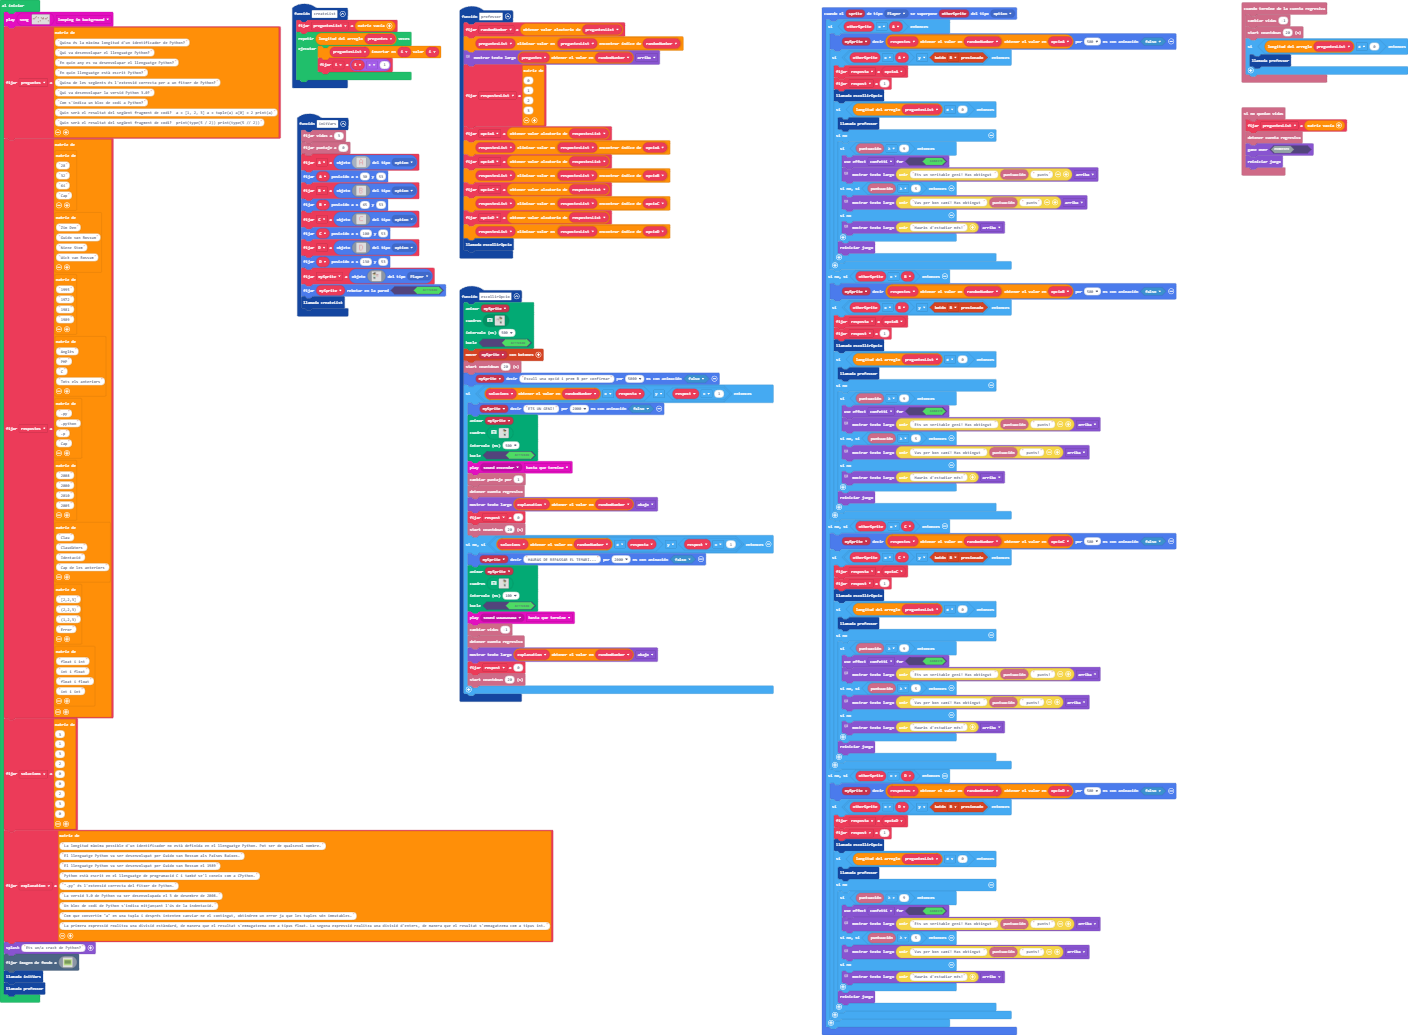
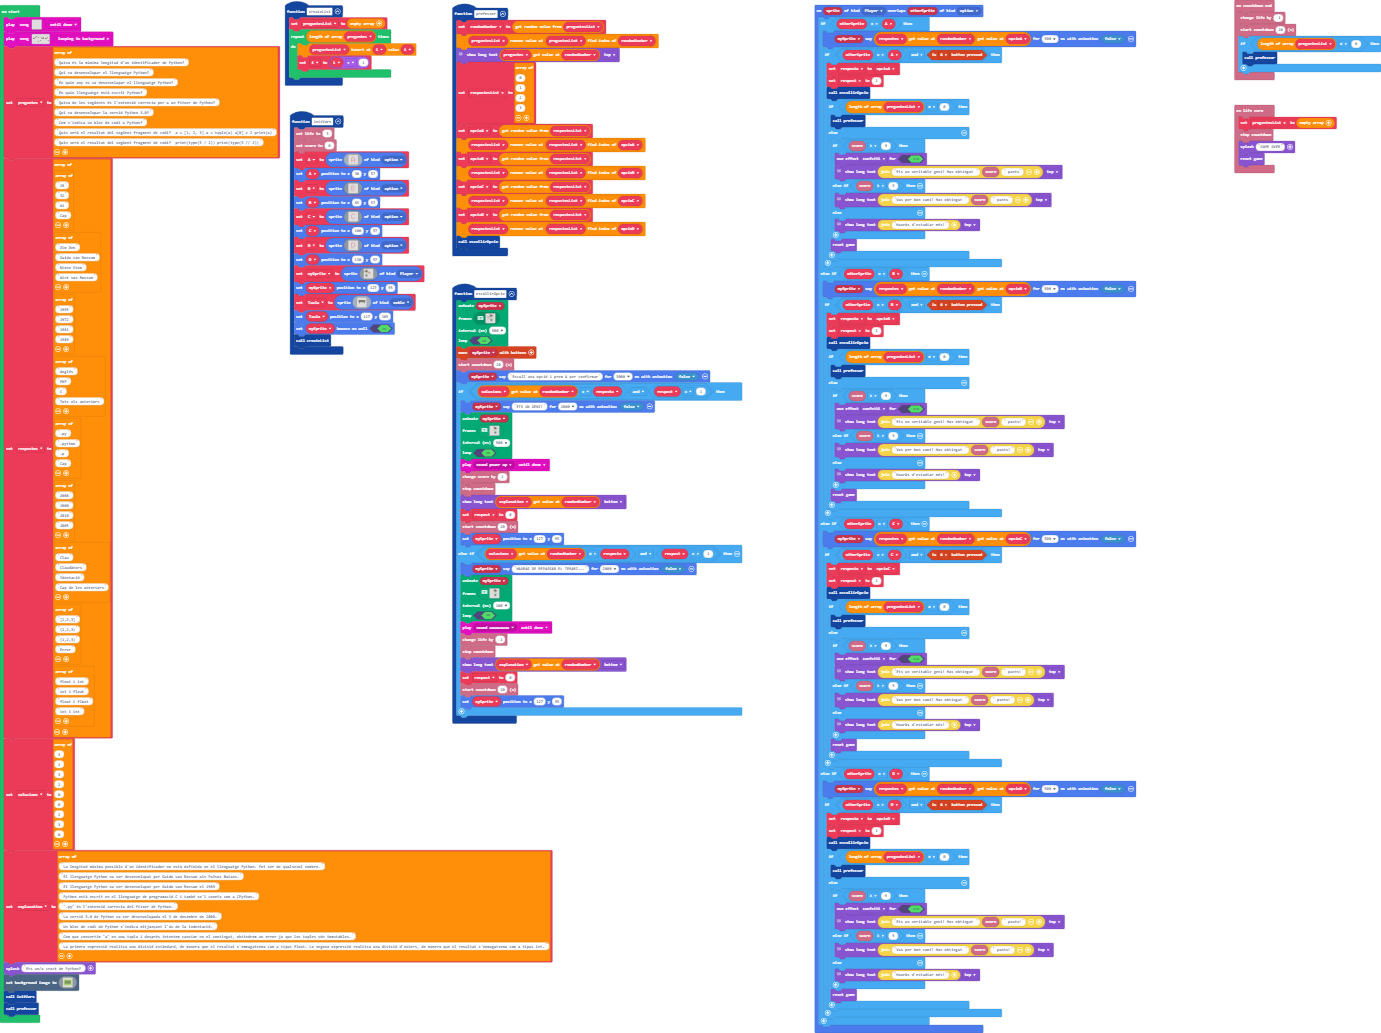
Update main.blocks, main.ts, images.g.jres, images.g.ts, tilemap.g.ts

Changed region(s): [[0.0, 0.0, 0.8407, 1.0], [0.8718, 0.0, 1.0, 0.1859], [0.685, 0.9913, 0.7473, 1.0]]

diff --git a/images.g.ts b/images.g.ts
@@ -1,4 +1,4 @@
-// Código generado automáticamente. No editar.
+// Auto-generated code. Do not edit.
 namespace myImages {
 
     helpers._registerFactory("image", function(name: string) {
@@ -219,6 +219,35 @@ dd...11111......................
 ................................
 ................................
 `;
+            case "image6":
+            case "myImage4":return img`
+. a a a a a a a a a a a a a a . 
+. . . a a a a a a a a a a . . . 
+. . . a . . . . . . . . a . . . 
+. . . a . . . . . . . . a . . . 
+. . . a . . . . . . . . a . . . 
+. . . . . . . . . . . . . . . . 
+. . . . . . . . . . . . . . . . 
+. . . . . . . . . . . . . . . . 
+`;
+            case "image9":
+            case "myImage7":return img`
+................................
+..aaaaaaaaaaaaaaaaaaaaaaaaaaaa..
+..aaaaaaaaaaaaaaaaaaaaaaaaaaaa..
+..aaaaaaaaaaaaaaaaaaaaaaaaaaaa..
+......aaaaaaaaaaaaaaaaaaaa......
+......aaaaaaaaaaaaaaaaaaaa......
+......aa................aa......
+......aa................aa......
+......aa................aa......
+......aa................aa......
+......aa................aa......
+......aa................aa......
+................................
+................................
+................................
+`;
         }
         return null;
     })
@@ -324,107 +353,6 @@ dd...11111......................
 ................................
 ................................
 ................................
-................................
-`];
-            case "myAnim":
-            case "anim1":return [img`
-..........99999999999...........
-........99...........99.........
-......99...............99.......
-.....9......f............9......
-....9.......fff.f.........9.....
-...9.......ffffffff........9....
-..9........ffffffffff.......9...
-..9.........fddfddffff......9...
-.9..........dddddddfff.......9..
-.9..........ddfddfdddf.......9..
-9..........ddddddddddd........9.
-9...........ddddddddd.........9.
-9...........ddddddddd.........9.
-9............ddddddd..........9.
-9..............dddd...........9.
-9...............dd............9.
-9.....5.......11111...........9.
-9......5.....1111111..........9.
-9.......dd..111111111.........9.
-9........dddd.11111d..........9.
-9.............11111.dd........9.
-.9............11111...dd.....9..
-.9............11111..........9..
-..9...........fffff.........9...
-..9...........fffff.........9...
-...9..........fffff........9....
-....9.........ff.ff.......9.....
-.....9.........d.d.......9......
-......99.......d.d.....99.......
-........99....ff.ff..99.........
-..........99999999999...........
-................................
-`, img`
-...........99999999999..........
-.........99...........99........
-.......99...............99......
-......9............f......9.....
-.....9.........f.fff.......9....
-....9........ffffffff.......9...
-...9.......ffffffffff........9..
-...9......ffffddfddf.........9..
-..9.......fffddddddd..........9.
-..9.......fdddfddfdd..........9.
-.9........ddddddddddd..........9
-.9.........ddddddddd...........9
-.9.........ddddddddd...........9
-.9..........ddddddd............9
-.9...........dddd..............9
-.9............dd...............9
-.9...........11111.......5.....9
-.9..........1111111.....5......9
-.9.........111111111..dd.......9
-.9..........d11111.dddd........9
-.9........dd.11111.............9
-..9.....dd...11111............9.
-..9..........11111............9.
-...9.........fffff...........9..
-...9.........fffff...........9..
-....9........fffff..........9...
-.....9.......ff.ff.........9....
-......9.......d.d.........9.....
-.......99.....d.d.......99......
-.........99..ff.ff....99........
-...........99999999999..........
-................................
-`, img`
-..........99999999999...........
-........99...........99.........
-......99...............99.......
-.....9......f............9......
-....9.......fff.f.........9.....
-...9.......ffffffff........9....
-..9........ffffffffff.......9...
-..9.........fddfddffff......9...
-.9..........dddddddfff.......9..
-.9..........ddfddfdddf.......9..
-9..........ddddddddddd........9.
-9...........ddddddddd.........9.
-9...........ddddddddd.........9.
-9............ddddddd..........9.
-9..............dddd...........9.
-9...............dd............9.
-9.....5.......11111...........9.
-9......5.....1111111..........9.
-9.......dd..111111111.........9.
-9........dddd.11111d..........9.
-9.............11111.dd........9.
-.9............11111...dd.....9..
-.9............11111..........9..
-..9...........fffff.........9...
-..9...........fffff.........9...
-...9..........fffff........9....
-....9.........ff.ff.......9.....
-.....9.........d.d.......9......
-......99.......d.d.....99.......
-........99....ff.ff..99.........
-..........99999999999...........
 ................................
 `];
             case "myAnim1":
@@ -709,4 +637,4 @@ dd...11111......................
     })
 
 }
-// Código generado automáticamente. No editar.
+// Auto-generated code. Do not edit.

diff --git a/main.ts b/main.ts
@@ -1,5 +1,6 @@
 namespace SpriteKind {
     export const option = SpriteKind.create()
+    export const moble = SpriteKind.create()
 }
 function escollirOpcio () {
     animation.runImageAnimation(
@@ -10,7 +11,7 @@ function escollirOpcio () {
     )
     controller.moveSprite(mySprite)
     info.startCountdown(20)
-    mySprite.sayText("Escull una opció i prem B per confirmar", 5000, false)
+    mySprite.sayText("Escull una opció i prem A per confirmar", 5000, false)
     if (solucions[randomNumber] == resposta && respost == 1) {
         mySprite.sayText("ETS UN GENI!", 2000, false)
         animation.runImageAnimation(
@@ -25,6 +26,7 @@ function escollirOpcio () {
         game.showLongText(explanation[randomNumber], DialogLayout.Bottom)
         respost = 0
         info.startCountdown(20)
+        mySprite.setPosition(127, 95)
     } else if (solucions[randomNumber] != resposta && respost == 1) {
         mySprite.sayText("HAURÀS DE REPASSAR EL TEMARI...", 2000, false)
         animation.runImageAnimation(
@@ -39,6 +41,7 @@ function escollirOpcio () {
         game.showLongText(explanation[randomNumber], DialogLayout.Bottom)
         respost = 0
         info.startCountdown(20)
+        mySprite.setPosition(127, 95)
     }
 }
 function createList () {
@@ -80,21 +83,24 @@ function initVars () {
     info.setLife(3)
     info.setScore(0)
     A = sprites.create(assets.image`myImage6`, SpriteKind.option)
-    A.setPosition(30, 53)
+    A.setPosition(30, 57)
     B = sprites.create(assets.image`myImage3`, SpriteKind.option)
-    B.setPosition(65, 53)
+    B.setPosition(65, 57)
     C = sprites.create(assets.image`myImage5`, SpriteKind.option)
-    C.setPosition(100, 53)
+    C.setPosition(100, 57)
     D = sprites.create(assets.image`myImage8`, SpriteKind.option)
-    D.setPosition(130, 53)
+    D.setPosition(130, 57)
     mySprite = sprites.create(assets.image`myImage0`, SpriteKind.Player)
+    mySprite.setPosition(127, 95)
+    Taula = sprites.create(assets.image`myImage7`, SpriteKind.moble)
+    Taula.setPosition(127, 105)
     mySprite.setBounceOnWall(true)
     createList()
 }
 sprites.onOverlap(SpriteKind.Player, SpriteKind.option, function (sprite, otherSprite) {
     if (otherSprite == A) {
         mySprite.sayText(respostes[randomNumber][opcioA], 500, false)
-        if (otherSprite == A && controller.B.isPressed()) {
+        if (otherSprite == A && controller.A.isPressed()) {
             resposta = opcioA
             respost = 1
             escollirOpcio()
@@ -117,7 +123,7 @@ sprites.onOverlap(SpriteKind.Player, SpriteKind.option, function (sprite, otherS
         }
     } else if (otherSprite == B) {
         mySprite.sayText(respostes[randomNumber][opcioB], 500, false)
-        if (otherSprite == B && controller.B.isPressed()) {
+        if (otherSprite == B && controller.A.isPressed()) {
             resposta = opcioB
             respost = 1
             escollirOpcio()
@@ -140,7 +146,7 @@ sprites.onOverlap(SpriteKind.Player, SpriteKind.option, function (sprite, otherS
         }
     } else if (otherSprite == C) {
         mySprite.sayText(respostes[randomNumber][opcioC], 500, false)
-        if (otherSprite == C && controller.B.isPressed()) {
+        if (otherSprite == C && controller.A.isPressed()) {
             resposta = opcioC
             respost = 1
             escollirOpcio()
@@ -163,7 +169,7 @@ sprites.onOverlap(SpriteKind.Player, SpriteKind.option, function (sprite, otherS
         }
     } else if (otherSprite == D) {
         mySprite.sayText(respostes[randomNumber][opcioD], 500, false)
-        if (otherSprite == D && controller.B.isPressed()) {
+        if (otherSprite == D && controller.A.isPressed()) {
             resposta = opcioD
             respost = 1
             escollirOpcio()
@@ -189,9 +195,10 @@ sprites.onOverlap(SpriteKind.Player, SpriteKind.option, function (sprite, otherS
 info.onLifeZero(function () {
     preguntesList = []
     info.stopCountdown()
-    game.gameOver(false)
+    game.splash("GAME OVER")
     game.reset()
 })
+let Taula: Sprite = null
 let D: Sprite = null
 let C: Sprite = null
 let B: Sprite = null
@@ -211,6 +218,7 @@ let explanation: string[] = []
 let solucions: number[] = []
 let respostes: string[][] = []
 let preguntes: string[] = []
+music.play(music.createSong(hex`00780004080100`), music.PlaybackMode.UntilDone)
[1 lines of base64/hex data omitted]
 preguntes = [
 "Quina és la màxima longitud d'un identificador de Python?",

diff --git a/tilemap.g.ts b/tilemap.g.ts
@@ -1,4 +1,4 @@
-// Código generado automáticamente. No editar.
+// Auto-generated code. Do not edit.
 namespace myTiles {
     //% fixedInstance jres blockIdentity=images._tile
     export const transparency16 = image.ofBuffer(hex``);
@@ -11,4 +11,4 @@ namespace myTiles {
     })
 
 }
-// Código generado automáticamente. No editar.
+// Auto-generated code. Do not edit.
